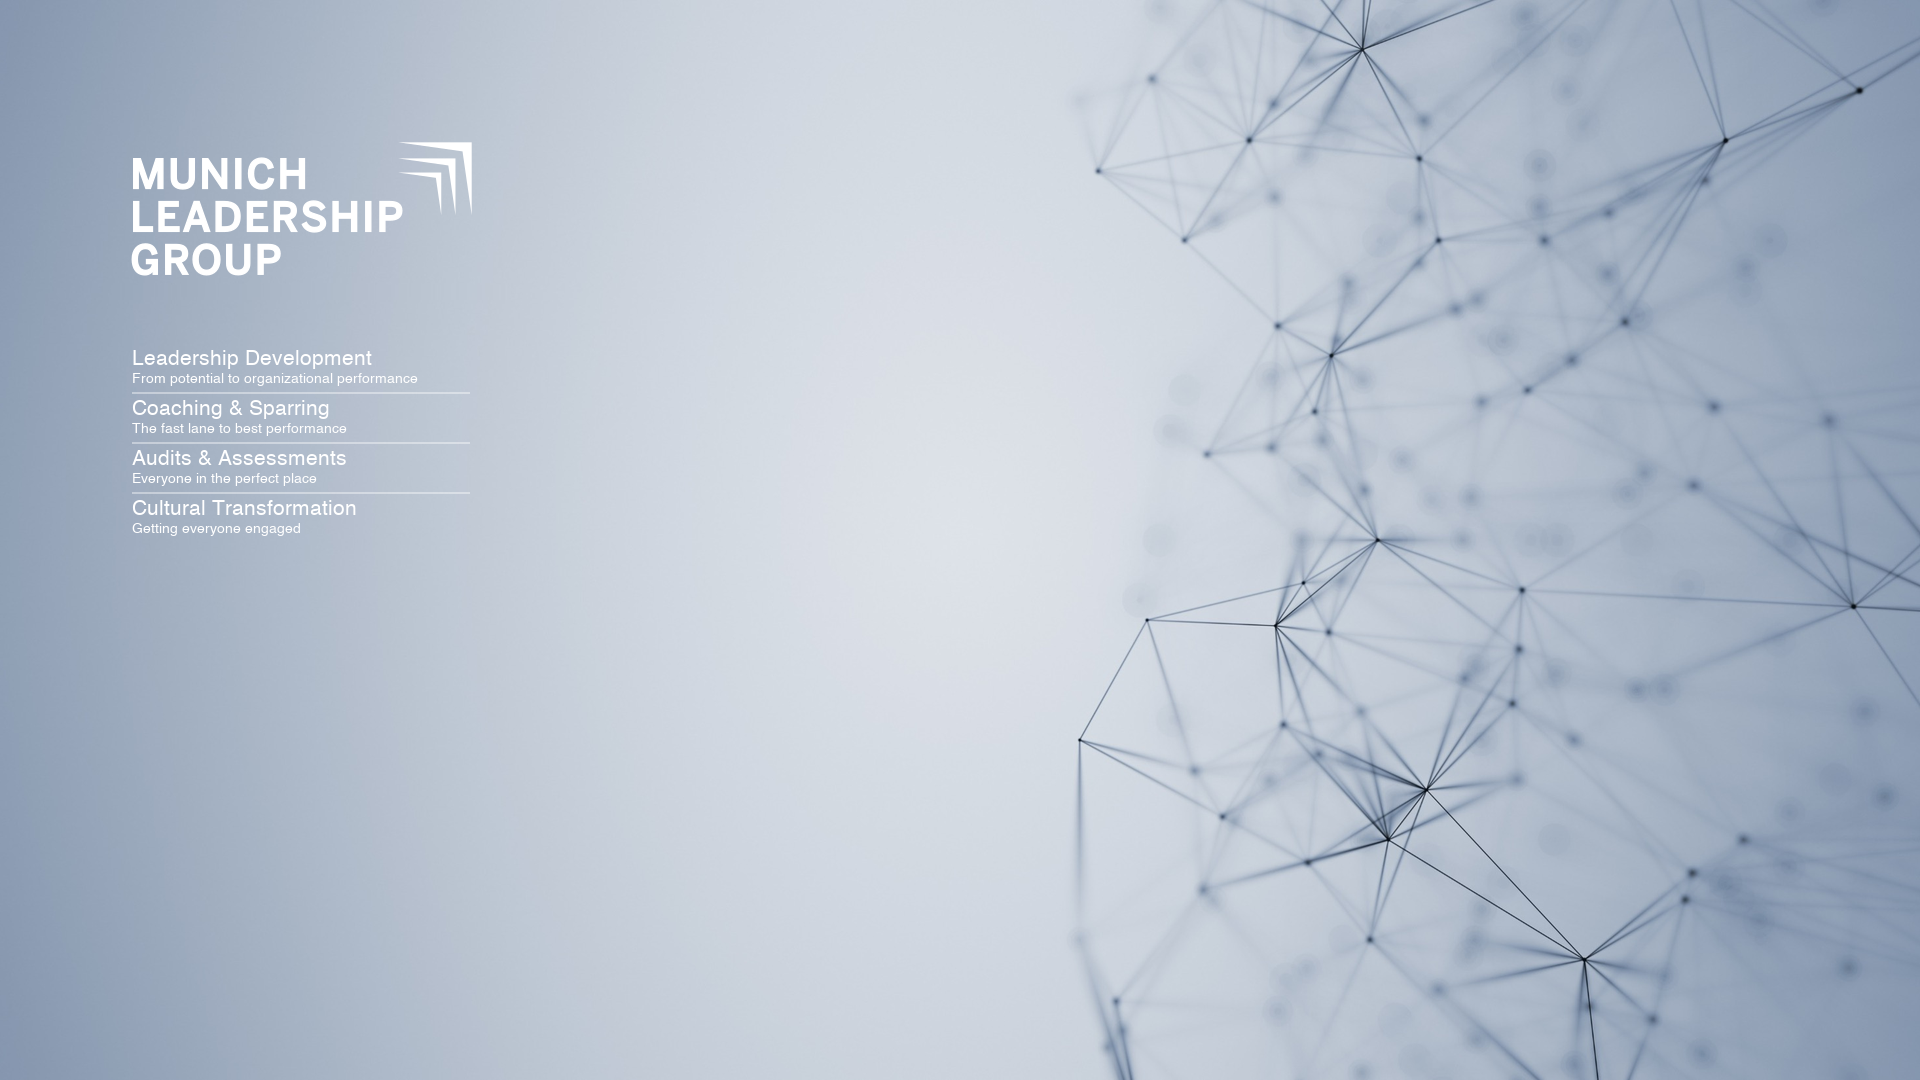
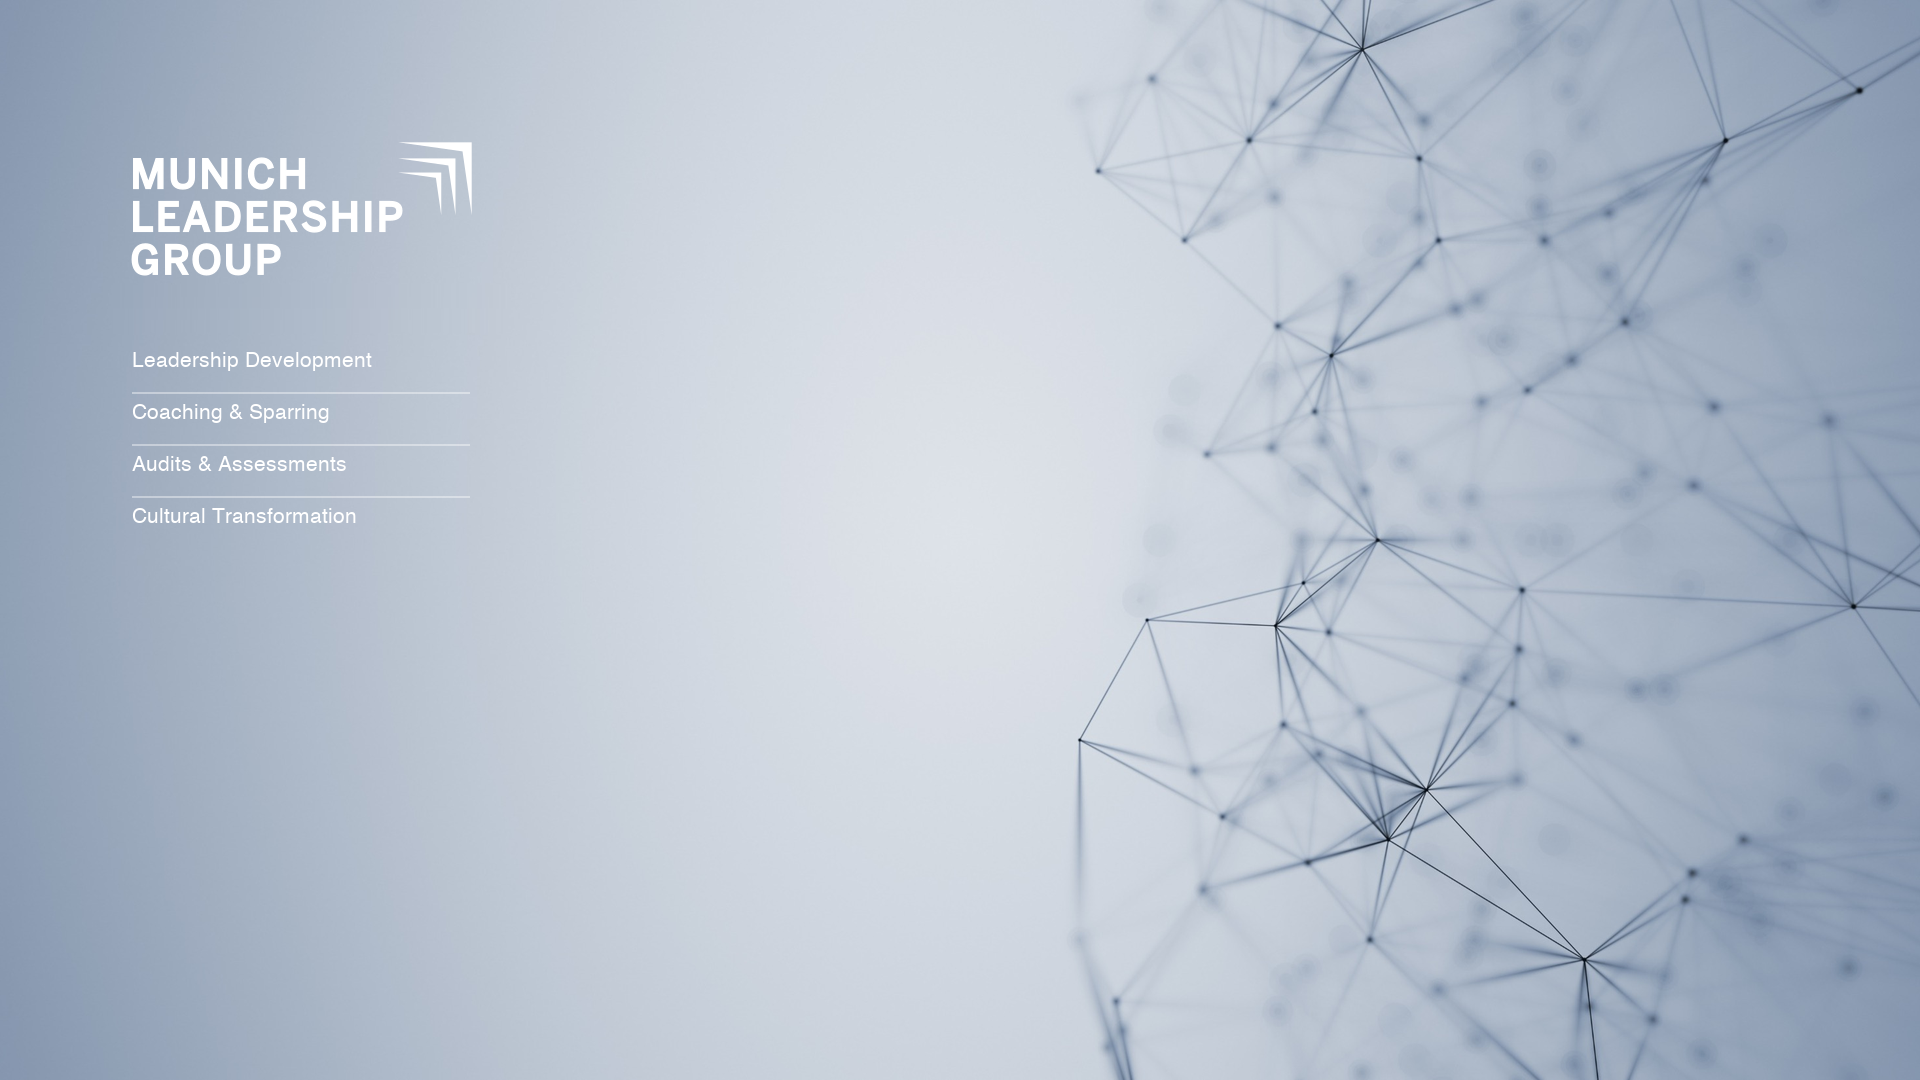
Teams bg: fix navy GROUP (full #040e1a); two-line uses names only (no added text)

Changed region(s): [[0.0625, 0.3056, 0.2188, 0.4889]]

diff --git a/scripts/build_teams_bg_variations.py b/scripts/build_teams_bg_variations.py
@@ -61,7 +61,7 @@ def build_lines():
 # ── 2) navy ─────────────────────────────────────────────────────────
 def build_navy():
     im = Image.open(BASE).convert("RGB"); px = im.load()
-    for (x0, y0, x1, y1) in [(108, 130, 780, 256), (108, 338, 565, 500)]:
+    for (x0, y0, x1, y1) in [(108, 130, 780, 285), (108, 338, 565, 500)]:
         for y in range(y0, y1):
             for x in range(x0, x1):
                 m = min(px[x, y])
@@ -78,32 +78,32 @@ def build_navy():
     im.save(DIR / "mlg-teams-bg-navy-1920x1080.png", "PNG", optimize=True)
     print("✓ navy")
 
-# ── 3) two-line (name + tagline) with dividers ──────────────────────
-def build_twoline():
-    im = clean_bg()
-    logo = Image.open(BASE).convert("RGB")
-    # keep the logo: copy the logo region from the base onto the clean bg
-    im.paste(logo.crop((100, 120, 900, 300)), (100, 120))
+# ── 3) service names on generously spaced rows, divided by lines ────
+#     (existing bullet-list text only — NO added copy)
+def build_lines_spaced():
+    im = Image.open(BASE).convert("RGB"); px = im.load()
+    bg = clean_bg().load()
+    # erase the whole existing service block (squares + names)
+    for y in range(340, 500):
+        for x in range(120, 470):
+            px[x, y] = bg[x, y]
     d = ImageDraw.Draw(im)
     name_f = font(21, bold=False)
-    tag_f  = font(14, bold=False)
     x = 132
-    top0, pitch = 348, 50
+    top0, pitch = 350, 52
     WHITE = (255, 255, 255)
-    TAG = (255, 255, 255)
-    for i, (name, tag) in enumerate(SERVICES):
+    for i, (name, _tag) in enumerate(SERVICES):
         top = top0 + i * pitch
         d.text((x, top), name, font=name_f, fill=WHITE)
-        d.text((x, top + 24), tag, font=tag_f, fill=TAG)
-        if i < len(SERVICES) - 1:                # divider under the item
-            ly = top + pitch - 6
+        if i < len(SERVICES) - 1:                # divider between items
+            ly = top + pitch - 10
             for xx in range(x, 470):
                 for yy in (ly, ly + 1):
                     im.putpixel((xx, yy), blend(im.getpixel((xx, yy)), (255, 255, 255), 0.4))
     im.save(DIR / "mlg-teams-bg-white-twoline-1920x1080.png", "PNG", optimize=True)
-    print("✓ white-twoline")
+    print("✓ white-twoline (names + dividers)")
 
 if __name__ == "__main__":
     build_lines()
     build_navy()
-    build_twoline()
+    build_lines_spaced()
